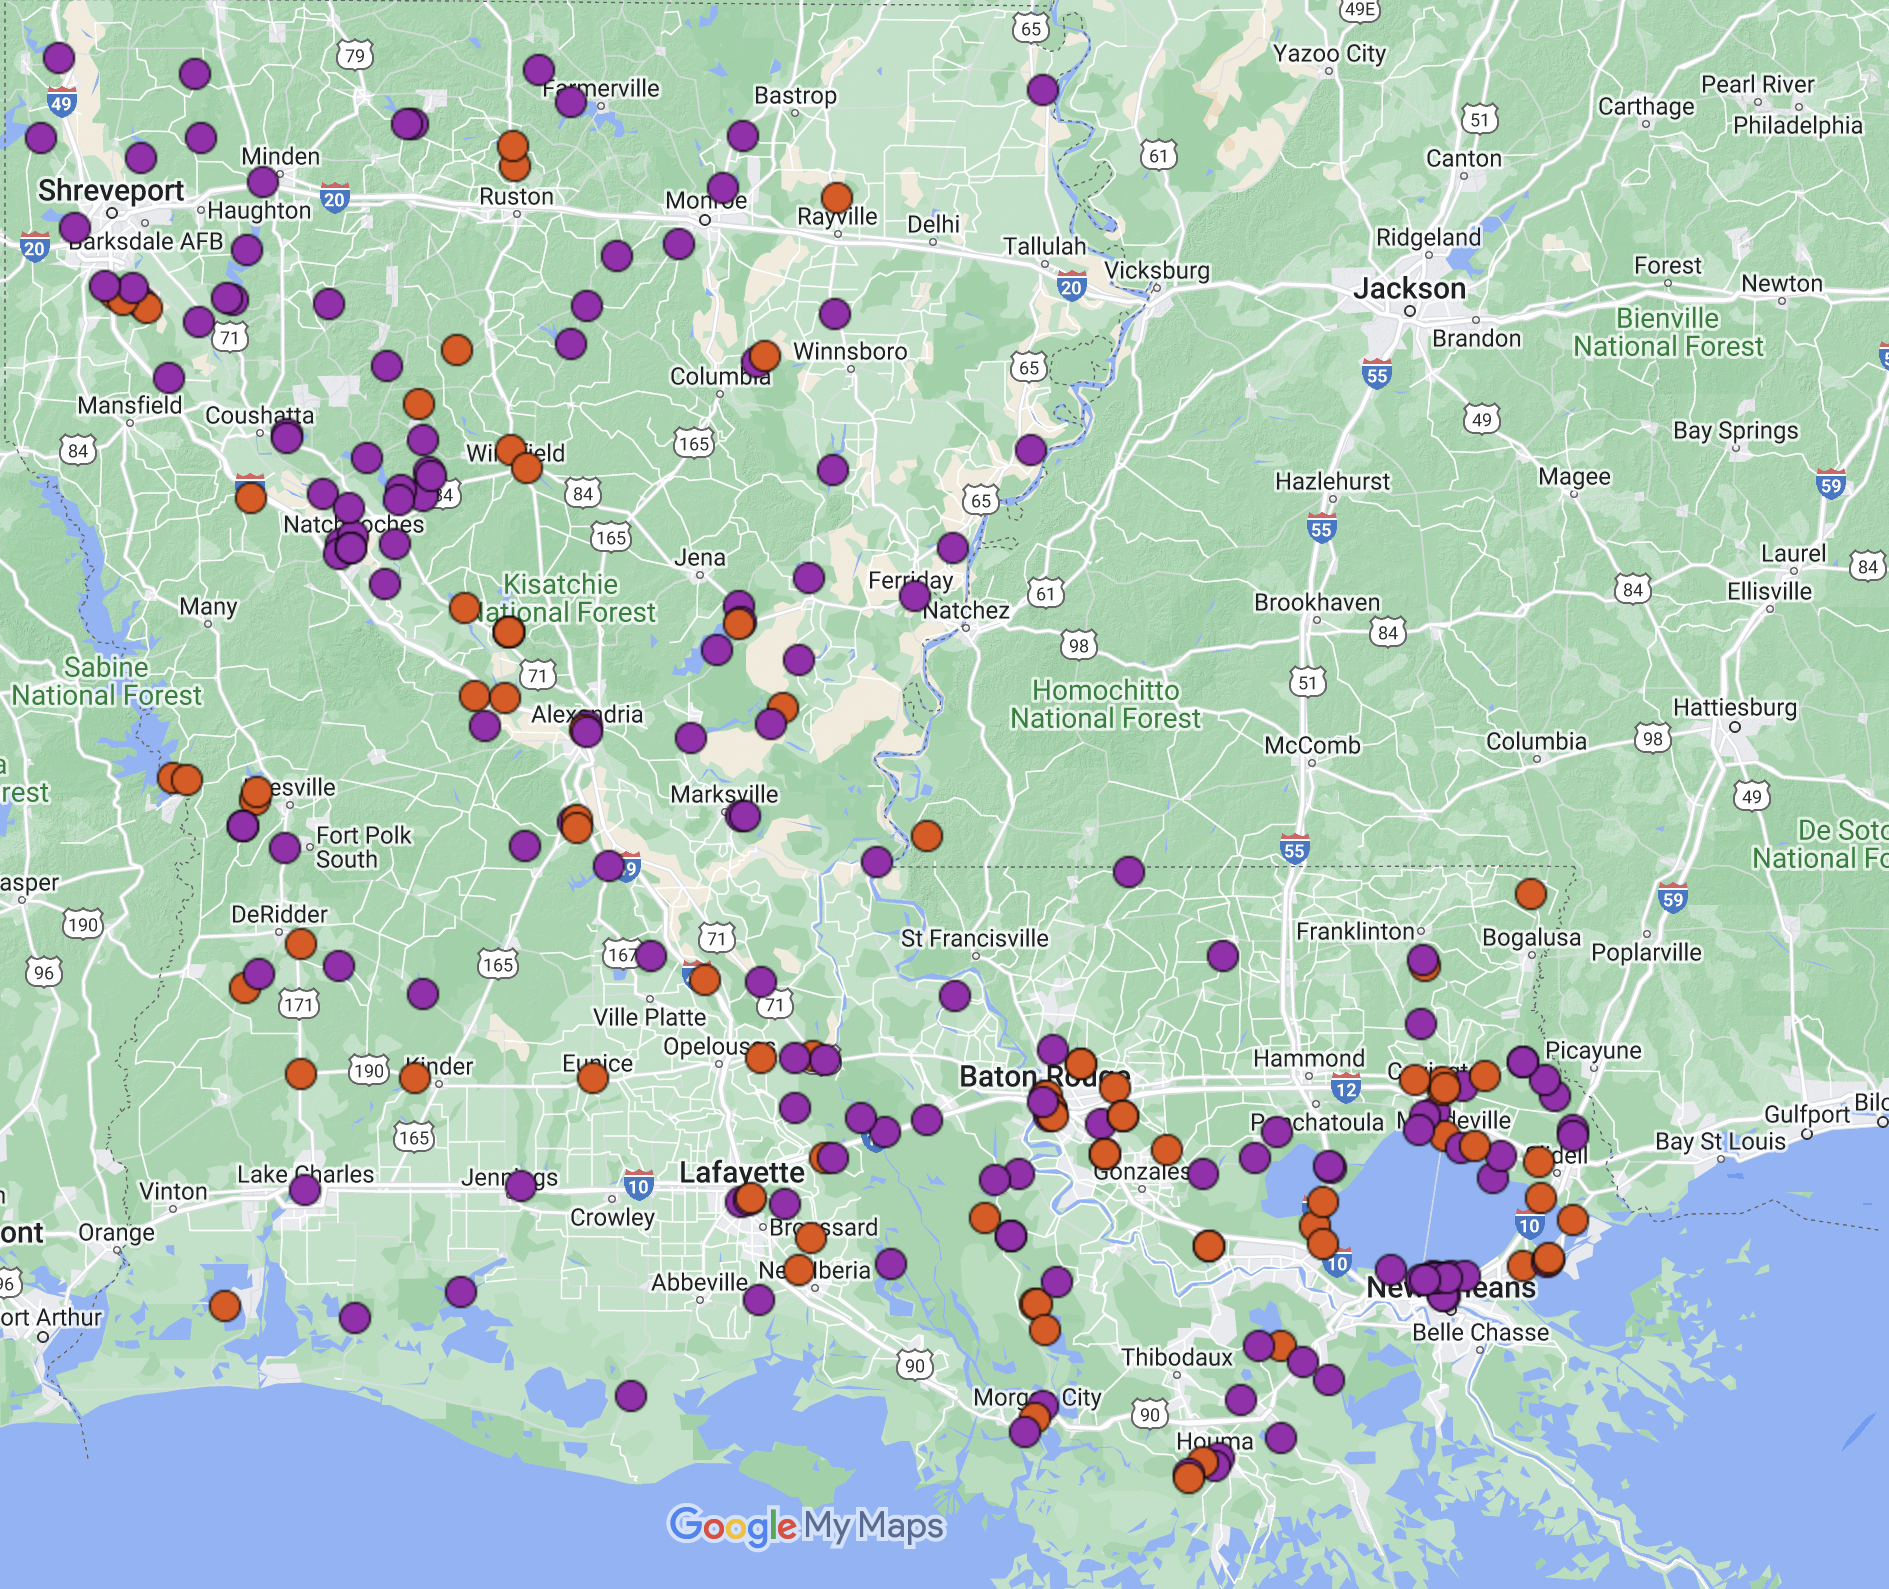
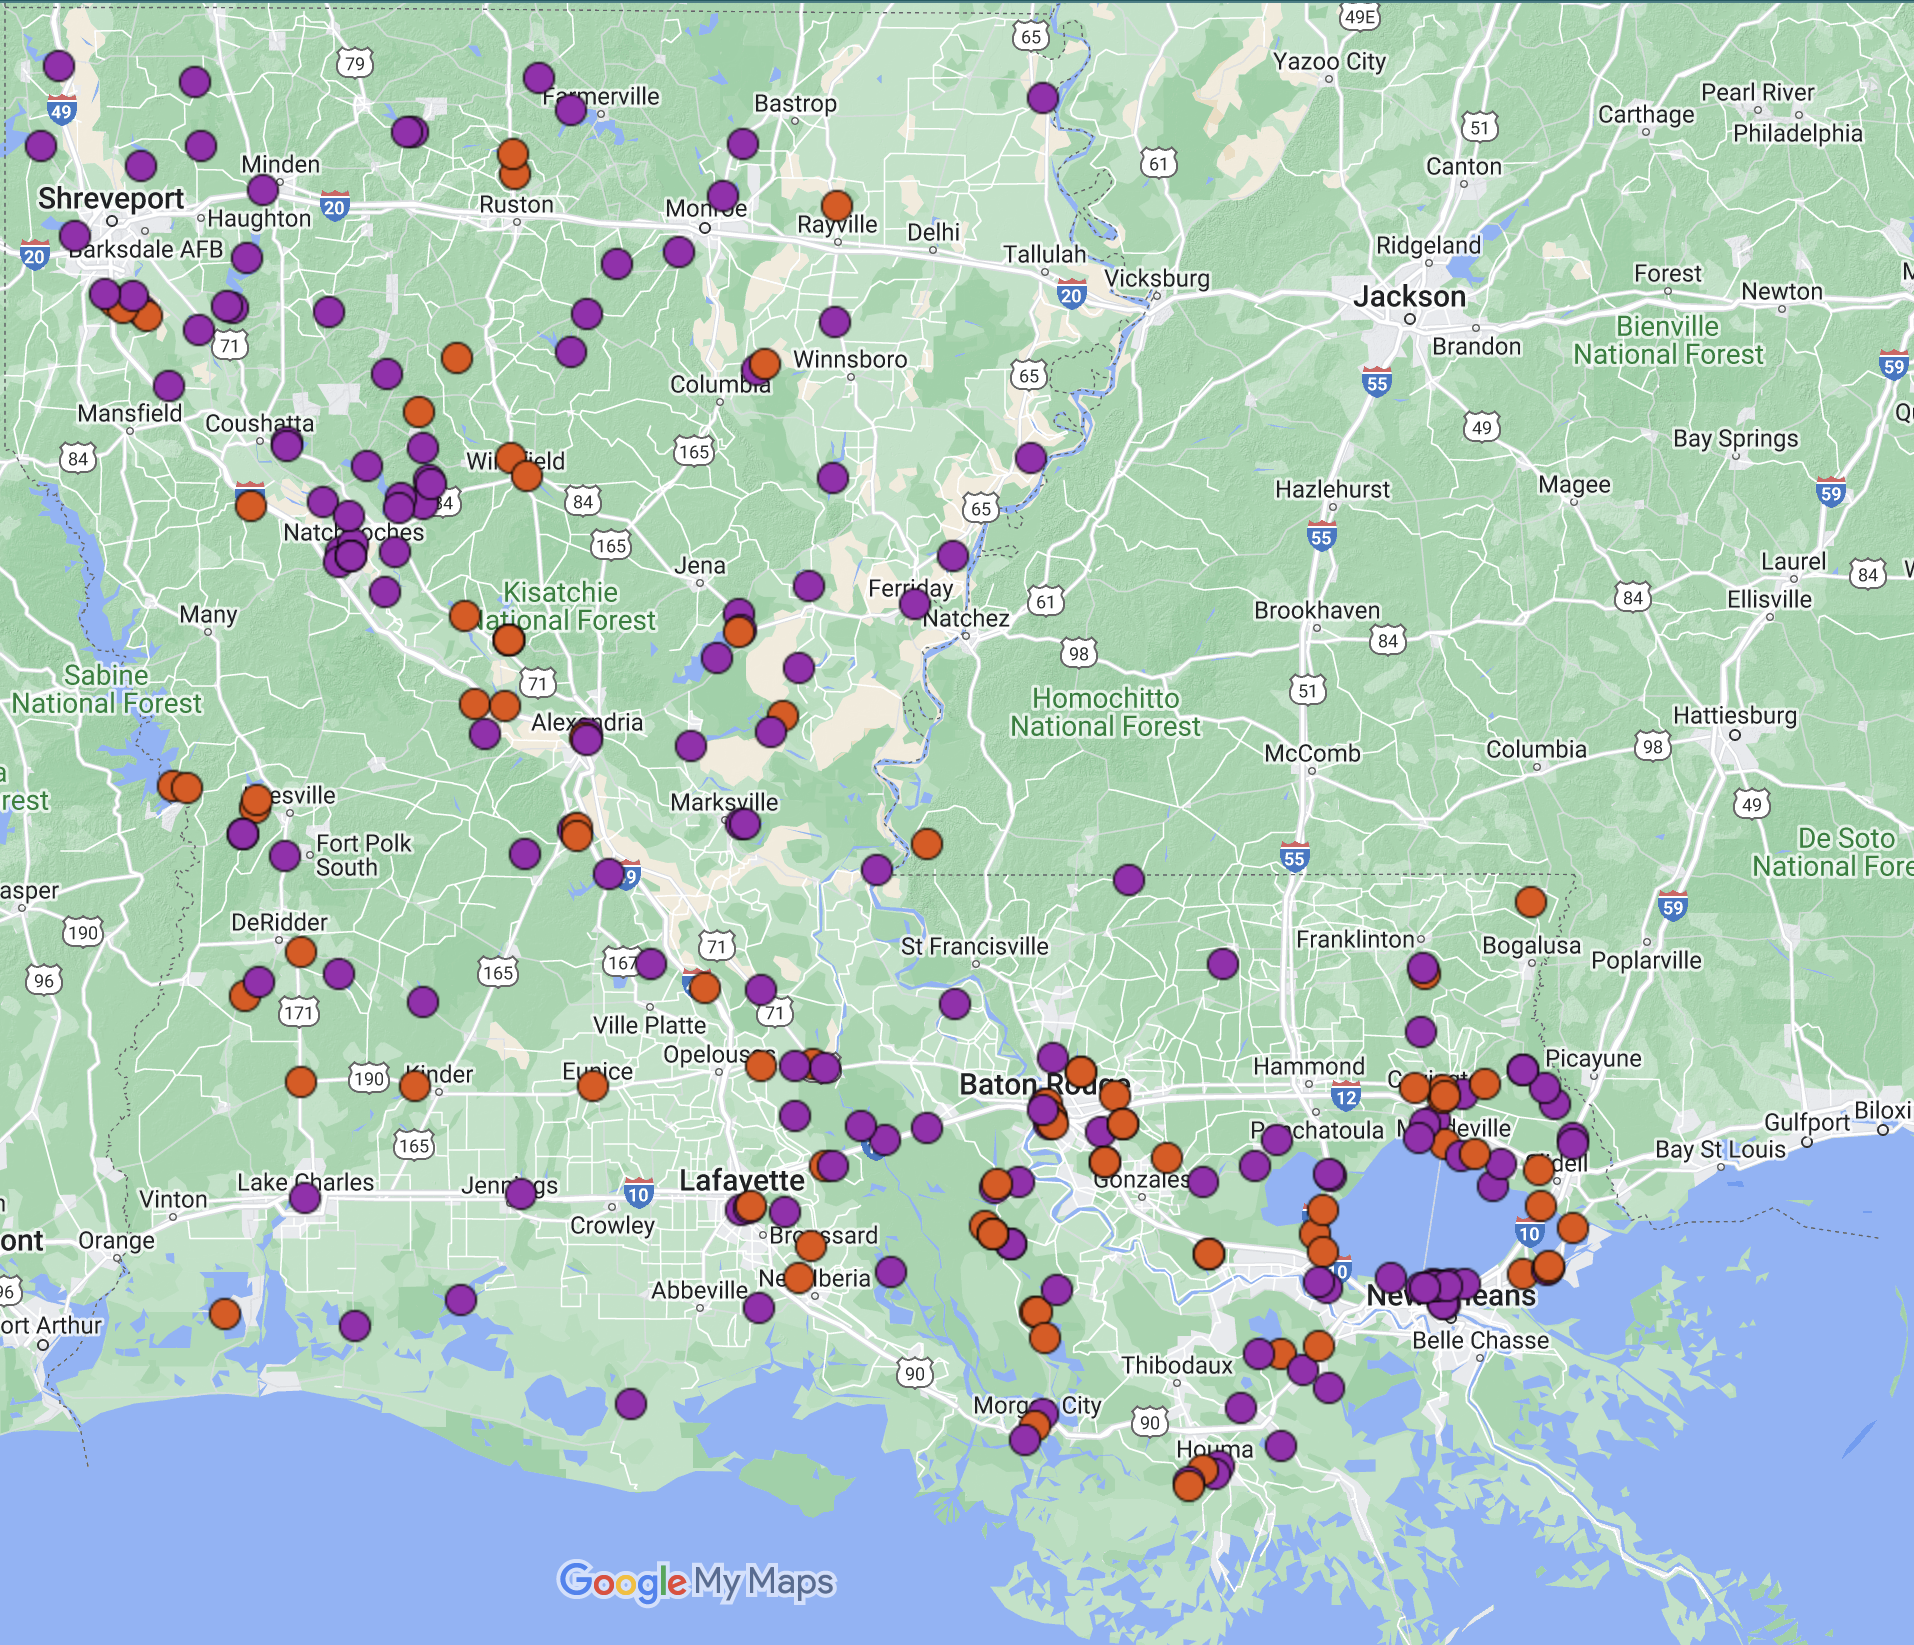
Updated All Sites Google Map and added Online Donation Form coding to "Support the Hunt."

diff --git a/donate.html b/donate.html
@@ -308,11 +308,16 @@ Please contact Dr. Miller at <a href="mailto:millerm2@mybrcc.edu"
 class="email">millerm2@mybrcc.edu</a> for instructions to ensure your
 funds are allocated correctly. If you have questions about donations,
 you are welcome to call her at 225-216-8528.</p>
+<div id="blackbaud-donation-form_4c143e91-7864-4dbe-a060-44022212d31b">
+
+</div>
+<pre><code>    &lt;script src=&quot;https://sky.blackbaudcdn.net/static/donor-form-loader/2/main.js&quot;&gt;&lt;/script&gt;
+    &lt;script&gt;BBDonorFormLoader.newBlackbaudDonationFormZoned(&#39;renxt&#39;, &#39;p-n0JbOlKDSkO4AIqh506tgw&#39;, &#39;4c143e91-7864-4dbe-a060-44022212d31b&#39;, &#39;usa&#39;)&lt;/script&gt;</code></pre>
 <p>Thank you to our current personal supporters: <br> Michelle Watkins
 <br> Sondra LeBreton <br> <br> <br> Thank you to our current corporation
 sponsors: <br> <img src="honey.jpg" style="width:25.0%" /> <br> <a
-href="https://www.honeyislandswamp.com/">Honey Island Kayak Tours</a>
-<br> <br></p>
+href="https://www.honeyislandkayaktours.com/">Honey Island Kayak
+Tours</a> <br> <br></p>
 
 
 

diff --git a/site_libs/highlightjs-9.12.0/default 2.css b/site_libs/highlightjs-9.12.0/default 2.css
@@ -1,0 +1,21 @@
+.hljs-literal {
+  color: #990073;
+}
+
+.hljs-number {
+  color: #099;
+}
+
+.hljs-comment {
+  color: #998;
+  font-style: italic;
+}
+
+.hljs-keyword {
+  color: #900;
+  font-weight: bold;
+}
+
+.hljs-string {
+  color: #d14;
+}
